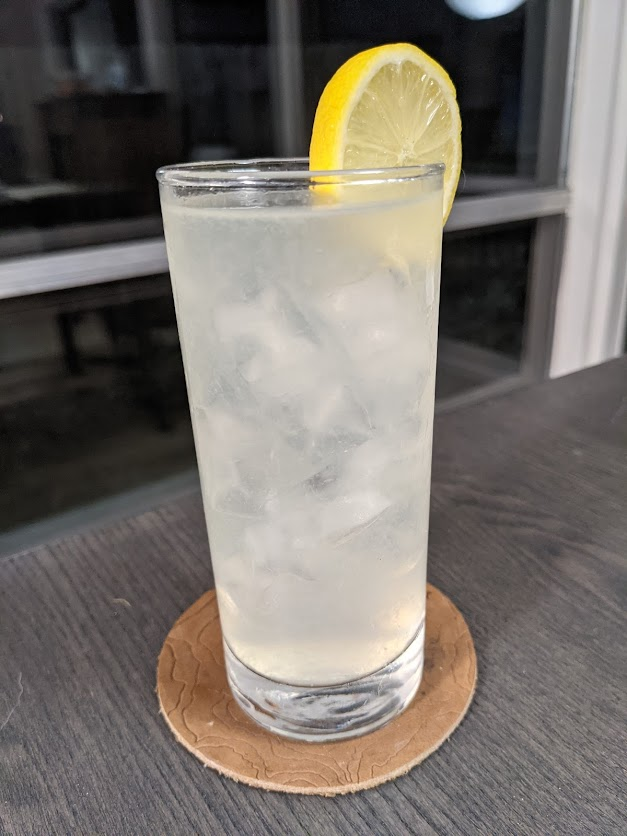
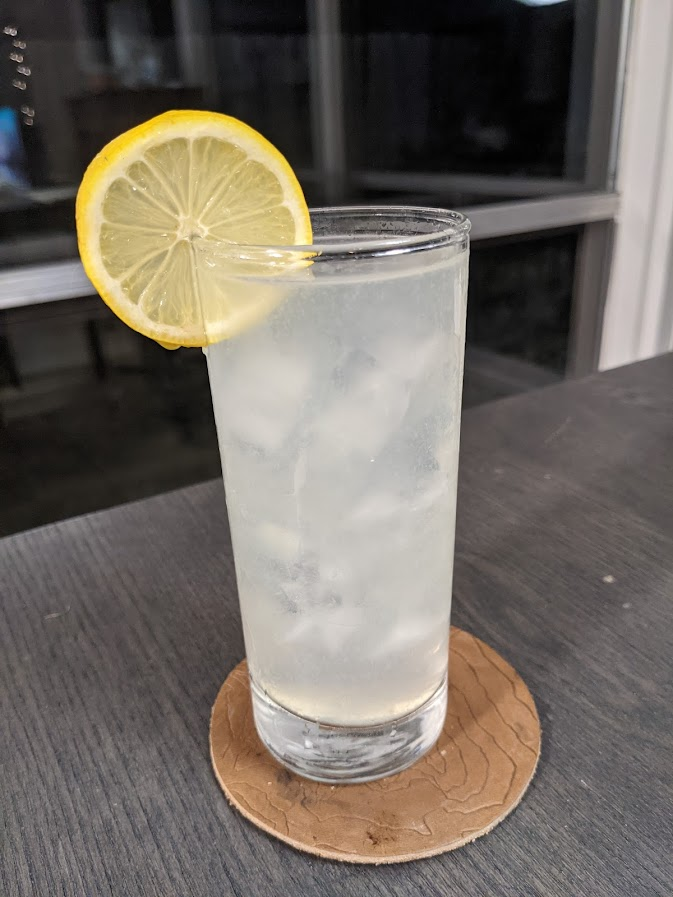
September 15 Collins

diff --git a/posts/14-collins.md b/posts/14-collins.md
@@ -1,0 +1,38 @@
+---
+title: collins
+description: The classic two-ingredient cocktail. Spirit + mixer
+date: 2021-09-14
+tags:
+  - gin
+  - lemon
+  - simple syrup
+  - soda water
+layout: layouts/post.njk
+image: collins.jpg
+---
+ - Recipe
+ - 2oz gin or whiskey or tequila
+ - 1oz lemon
+ - .5oz simple syrup
+ - soda water
+ - lemon wheel
+
+ Directions: Fill a highball glass with ice cubes, then add the liquor, simple syrup, and lemon juice. Top with soda water, stir gently, and garnish with the lemon wheel.
+
+## Collins
+
+If you cross a sour and a highball, you get a Collins. It uses a familiar pattern for sour drinks and tops it with carbonated water, making for a refreshing summer drink. Like sours, mixing and matching liquors and citrus fruits makes a 'close enough' variant which may or may not have its own name.
+
+### Ingredients
+
+For my Tom Collins, I used Roku gin, fresh lemon juice, and Topo Chico, but honestly this drink works fine with just about anything for the liquor. It's obviously better with higher quality liquor, but if fizzy alcoholic lemonade is your thing, this will take almost any liquor far.
+
+### History
+
+This is a very old drink with dubious origins. People were arguing in the late 1800s about whether it was invented in America or England.
+
+### Preparation Notes
+
+Nothing special here. If you want to go wild, a fun experiment could be to try shaking before adding the soda water and see if there's any texture or flavor profile change.
+
+Cheers!

diff --git a/posts/08-bramble.md b/posts/08-bramble.md
@@ -11,7 +11,7 @@ tags:
   - creme de mure
 image: bramble.jpg
 ---
- - Directions
+ - Recipe
  - 2oz gin
  - 1oz lemon juice
  - .5oz simple syrup
@@ -26,7 +26,7 @@ The Bramble is a newer cocktail, so its origins are less murky than some of the 
 
 A London Dry gin is perfect for this drink. As always, use freshly squeezed lemon juice, and fresh blackberries. Creme de mure is the fancy name for blackberry liqueur. If you don't have creme de mure, you can simulate the effect by using .25oz of each gin and simple syrup and add some more blackberries muddled into it.
 
-This drink looks really cool and tastes fantastic. It's better during blackberry season,
+This drink looks really cool and tastes fantastic. It's refreshing and juicy, and the blackberry pieces mixed into the light yellow of the gin and lemon base is simply lovely.
 
 These posts have been a little bit lighter as I've been doing some simple (and delicious) drinks, so I thought I would take the time today, at the beginning of week two, to make a more involved drink that introduces some new techniques. This drink has some extra steps that I haven't touched on yet - short shaking, muddling, and crushed ice.
 

diff --git a/posts/09-last-word.md b/posts/09-last-word.md
@@ -10,7 +10,7 @@ tags:
   - maraschino liqueur
 image: last-word.jpg
 ---
- - Directions
+ - Recipe
  - .75oz gin
  - .75oz green chartreuse
  - .75oz lime juice

diff --git a/posts/11-brown-derby.md b/posts/11-brown-derby.md
@@ -9,7 +9,7 @@ tags:
   - honey syrup
 image: brown-derby.jpg
 ---
- - Directions
+ - Recipe
  - 2oz bourbon
  - 1oz grapefruit juice
  - .75oz honey syrup

diff --git a/posts/13-whiskey-sour.md b/posts/13-whiskey-sour.md
@@ -10,7 +10,7 @@ tags:
   - egg white
 image: whiskey-sour.jpg
 ---
- - Directions
+ - Recipe
  - 2oz whiskey
  - 1oz lemon juice
  - .75oz simple syrup

diff --git a/posts/12-bijou.md b/posts/12-bijou.md
@@ -10,7 +10,7 @@ tags:
   - orange bitters
 image: bijou.jpg
 ---
- - Directions
+ - Recipe
  - 1oz gin
  - 1oz green chartreuse
  - 1oz sweet vermouth

diff --git a/posts/06-paloma.md b/posts/06-paloma.md
@@ -10,7 +10,7 @@ tags:
   - salt
 image: paloma.jpg
 ---
- - Directions
+ - Recipe
  - 2oz tequila
  - .5oz lime juice (optional)
  - grapefruit soda

diff --git a/posts/07-cuba-libre.md b/posts/07-cuba-libre.md
@@ -9,7 +9,7 @@ tags:
   - cola
 image: cuba-libre.jpg
 ---
- - Directions
+ - Recipe
  - 2oz rum
  - .5oz lime juice
  - cola
